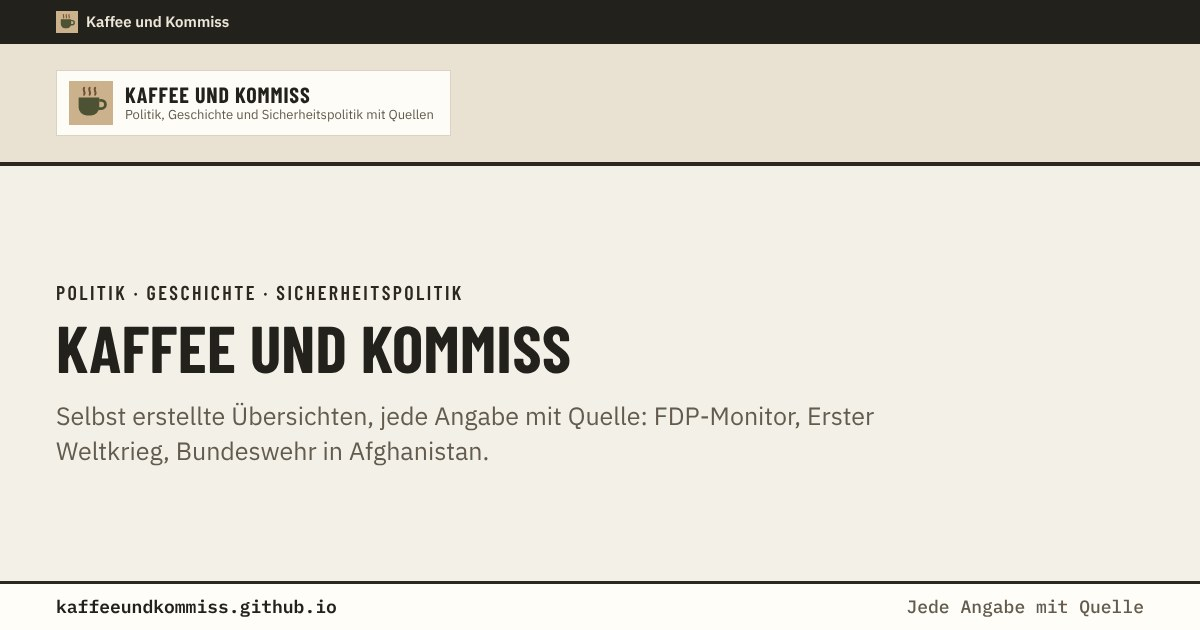
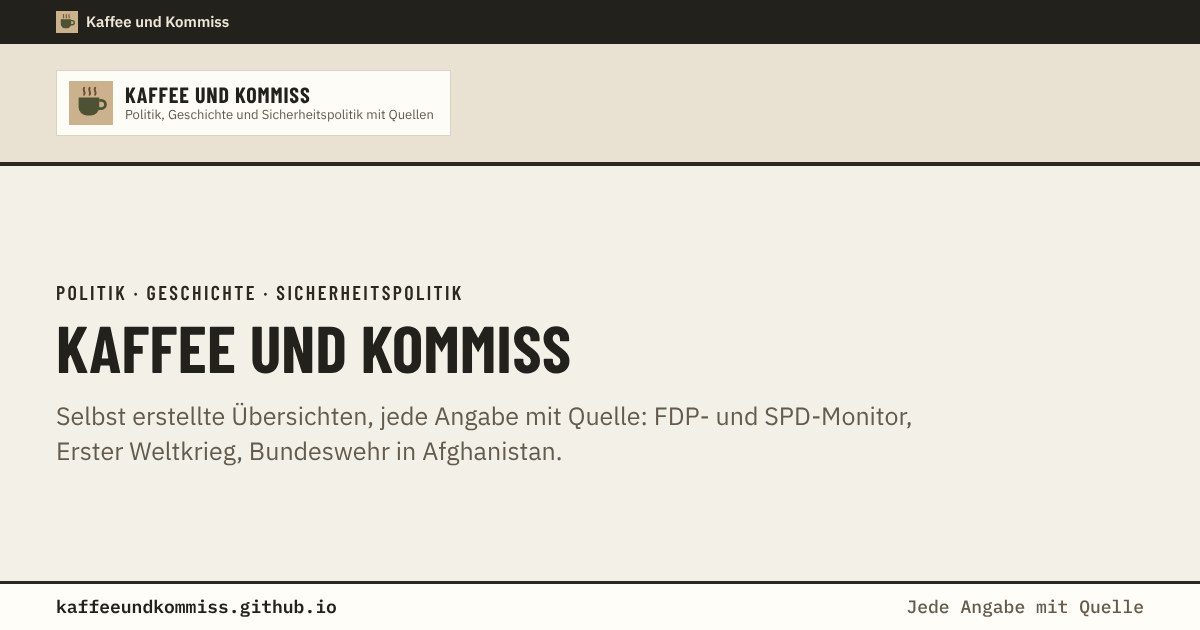
Politik-Übersicht mit FDP- und SPD-Monitor
Neue Seite politik/ listet beide Partei-Monitore. Die Startseiten-Kachel
und der Politik-Link der Leiste zeigen dorthin. Neues neutrales
Politik-Signet (blau), Signets fdp.svg und spd.svg, Vorschaubilder.

Claude-Session: https://claude.ai/code/session_01AuP7hJuLL2MaYYvZkzwGkQ

Changed region(s): [[0.0308, 0.6937, 0.4625, 0.754], [0.5858, 0.6333, 0.7708, 0.6937]]

diff --git a/politik/index.html b/politik/index.html
@@ -1,0 +1,78 @@
+<!doctype html>
+<html lang="de">
+<head>
+<meta charset="utf-8">
+<meta name="viewport" content="width=device-width, initial-scale=1">
+<title>Politik · Kaffee und Kommiss</title>
+<meta name="description" content="Partei-Monitore für FDP und SPD: Umfragewerte für Bund und Länder, Wahlergebnisse und Parteidaten, jede Angabe mit Quelle.">
+<link rel="canonical" href="https://kaffeeundkommiss.github.io/politik/">
+<meta property="og:type" content="website">
+<meta property="og:locale" content="de_DE">
+<meta property="og:site_name" content="Kaffee und Kommiss">
+<meta property="og:title" content="Politik · Kaffee und Kommiss">
+<meta property="og:description" content="Partei-Monitore für FDP und SPD: Umfragewerte für Bund und Länder, Wahlergebnisse und Parteidaten, jede Angabe mit Quelle.">
+<meta property="og:url" content="https://kaffeeundkommiss.github.io/politik/">
+<!-- Vorschau für Linkvorschauen, erzeugt mit werkzeuge/vorschau.js -->
+<meta property="og:image" content="https://kaffeeundkommiss.github.io/vorschau/politik.jpg?v=c4bcabc5">
+<meta property="og:image:width" content="1200">
+<meta property="og:image:height" content="630">
+<meta property="og:image:alt" content="Parteien im Überblick: Kaffee und Kommiss">
+<meta name="twitter:card" content="summary_large_image">
+<meta name="twitter:image" content="https://kaffeeundkommiss.github.io/vorschau/politik.jpg?v=c4bcabc5">
+<link rel="icon" href="../icons/politik.svg" type="image/svg+xml">
+<link rel="icon" href="../favicon-32.png" type="image/png" sizes="32x32">
+<link rel="apple-touch-icon" sizes="180x180" href="../apple-touch-icon.png?v=1">
+<meta name="theme-color" content="#23211C">
+<link rel="preconnect" href="https://fonts.googleapis.com">
+<link rel="preconnect" href="https://fonts.gstatic.com" crossorigin>
+<link rel="stylesheet" href="https://fonts.googleapis.com/css2?family=Barlow+Condensed:wght@500;600;700&family=IBM+Plex+Sans:wght@400;500;600;700&family=IBM+Plex+Mono:wght@400;500;600&display=swap">
+<link rel="stylesheet" href="../basis.css">
+<link rel="stylesheet" href="../style.css">
+</head>
+<body class="kk-b-poli">
+<div class="kk-leiste"><div class="kk-in">
+  <a class="kk-haus" href="https://kaffeeundkommiss.github.io/"><img src="../kk-tasse.svg" alt="" width="22" height="22"><span>Kaffee und Kommiss</span></a>
+  <nav class="kk-bereiche" aria-label="Bereiche"><a href="https://kaffeeundkommiss.github.io/erster-Weltkrieg/">Geschichte</a><a href="https://kaffeeundkommiss.github.io/bundeswehr-Afghanistan-/"><span class="kk-lang">Sicherheitspolitik</span><span class="kk-kurz">Sicherheit</span></a><a href="https://kaffeeundkommiss.github.io/politik/" aria-current="true">Politik</a></nav>
+</div></div>
+<header class="kk-kopf">
+  <div class="wrap">
+    <div class="kk-schild">
+      <img class="logo" src="../icons/politik.svg" alt="" width="44" height="44">
+      <div>
+        <div class="kk-name">Politik</div>
+        <div class="kk-unter">Partei-Monitore mit Umfragen und Wahlergebnissen</div>
+      </div>
+    </div>
+  </div>
+</header>
+
+<main>
+  <section class="einleitung">
+    <div class="kicker">Bereich Politik</div>
+    <h1>Parteien im Überblick</h1>
+    <p>Je Partei eine Seite mit gleichem Aufbau: aktuelle Umfragewerte für Bund und Länder (Quelle dawum.de), amtliche Wahlergebnisse und Daten zur Partei auf Bundesebene.</p>
+  </section>
+
+  <section class="projekte" aria-label="Partei-Monitore">
+    <a class="projekt kk-b-poli" href="https://kaffeeundkommiss.github.io/fdp-monitor/">
+      <span class="band"><img src="../icons/fdp.svg" alt="" width="40" height="40"></span>
+      <span class="rubrik">Politik</span>
+      <span class="titel">FDP-Monitor</span>
+      <span class="text">Umfragewerte der FDP für Bundestag und Landtagswahlen mit Abstand zur 5-%-Hürde, Wahlergebnisse seit 1998 und die Themen der Wahlprogramme.</span>
+      <span class="hinweis">Wird wöchentlich aktualisiert</span>
+    </a>
+    <a class="projekt kk-b-poli" href="https://kaffeeundkommiss.github.io/spd-monitor/">
+      <span class="band"><img src="../icons/spd.svg" alt="" width="40" height="40"></span>
+      <span class="rubrik">Politik</span>
+      <span class="titel">SPD-Monitor</span>
+      <span class="text">Umfragewerte der SPD für Bundestag und Landtagswahlen im Vergleich zur jeweils letzten Wahl, dazu Wahlergebnisse seit 1998 und der Parteivorsitz seit 1946.</span>
+      <span class="hinweis">Wird wöchentlich aktualisiert</span>
+    </a>
+  </section>
+</main>
+
+<footer class="kk-fuss"><div class="kk-in">
+  <p><a href="https://kaffeeundkommiss.github.io/">Kaffee und Kommiss</a>: Politik, Geschichte und Sicherheitspolitik mit Quellen. Private, nichtkommerzielle Zusammenstellung. Fehler gefunden? Bitte mit Quelle melden.</p>
+</div></footer>
+</body>
+</html>

diff --git a/index.html b/index.html
@@ -13,12 +13,12 @@
 <meta property="og:description" content="Selbst erstellte Übersichten zu Politik, Geschichte und Sicherheitspolitik, jede Angabe mit Quelle.">
 <meta property="og:url" content="https://kaffeeundkommiss.github.io/">
 <!-- Vorschau für Linkvorschauen, erzeugt mit werkzeuge/vorschau.js -->
-<meta property="og:image" content="https://kaffeeundkommiss.github.io/vorschau/start.jpg?v=b5fa48fe">
+<meta property="og:image" content="https://kaffeeundkommiss.github.io/vorschau/start.jpg?v=5d3710d7">
 <meta property="og:image:width" content="1200">
 <meta property="og:image:height" content="630">
 <meta property="og:image:alt" content="Kaffee und Kommiss">
 <meta name="twitter:card" content="summary_large_image">
-<meta name="twitter:image" content="https://kaffeeundkommiss.github.io/vorschau/start.jpg?v=b5fa48fe">
+<meta name="twitter:image" content="https://kaffeeundkommiss.github.io/vorschau/start.jpg?v=5d3710d7">
 <link rel="icon" href="favicon.svg" type="image/svg+xml">
 <link rel="icon" href="favicon-32.png" type="image/png" sizes="32x32">
 <link rel="apple-touch-icon" sizes="180x180" href="apple-touch-icon.png?v=1">
@@ -34,7 +34,7 @@
 <body>
 <div class="kk-leiste"><div class="kk-in">
   <a class="kk-haus" href="https://kaffeeundkommiss.github.io/"><img src="kk-tasse.svg" alt="" width="22" height="22"><span>Kaffee und Kommiss</span></a>
-  <nav class="kk-bereiche" aria-label="Bereiche"><a href="https://kaffeeundkommiss.github.io/erster-Weltkrieg/">Geschichte</a><a href="https://kaffeeundkommiss.github.io/bundeswehr-Afghanistan-/"><span class="kk-lang">Sicherheitspolitik</span><span class="kk-kurz">Sicherheit</span></a><a href="https://kaffeeundkommiss.github.io/fdp-monitor/">Politik</a></nav>
+  <nav class="kk-bereiche" aria-label="Bereiche"><a href="https://kaffeeundkommiss.github.io/erster-Weltkrieg/">Geschichte</a><a href="https://kaffeeundkommiss.github.io/bundeswehr-Afghanistan-/"><span class="kk-lang">Sicherheitspolitik</span><span class="kk-kurz">Sicherheit</span></a><a href="https://kaffeeundkommiss.github.io/politik/">Politik</a></nav>
 </div></div>
 <header class="kk-kopf">
   <div class="wrap">
@@ -56,11 +56,11 @@
   </section>
 
   <section class="projekte" aria-label="Projekte">
-    <a class="projekt kk-b-poli" href="https://kaffeeundkommiss.github.io/fdp-monitor/">
+    <a class="projekt kk-b-poli" href="https://kaffeeundkommiss.github.io/politik/">
       <span class="band"><img src="icons/politik.svg" alt="" width="40" height="40"></span>
       <span class="rubrik">Politik</span>
-      <span class="titel">FDP-Monitor</span>
-      <span class="text">Aktuelle Umfragewerte der FDP für Bundestag und Landtagswahlen, dazu Wahlergebnisse seit 1998 und die Themen der Wahlprogramme.</span>
+      <span class="titel">FDP- und SPD-Monitor</span>
+      <span class="text">Aktuelle Umfragewerte von FDP und SPD für Bundestag und Landtagswahlen, dazu Wahlergebnisse seit 1998 und Daten zur Partei.</span>
       <span class="hinweis">Wird wöchentlich aktualisiert</span>
     </a>
     <a class="projekt kk-b-gesch" href="https://kaffeeundkommiss.github.io/erster-Weltkrieg/">

diff --git a/README.md b/README.md
@@ -4,7 +4,7 @@ Startseite der Organisation: https://kaffeeundkommiss.github.io/
 
 Verweist auf die drei Projekte:
 
-- Politik: FDP-Monitor (https://kaffeeundkommiss.github.io/fdp-monitor/)
+- Politik: Übersicht https://kaffeeundkommiss.github.io/politik/ (Ordner `politik/`) mit FDP-Monitor (https://kaffeeundkommiss.github.io/fdp-monitor/) und SPD-Monitor (https://kaffeeundkommiss.github.io/spd-monitor/)
 - Geschichte: Jagdgeschwader Richthofen, https://kaffeeundkommiss.github.io/erster-Weltkrieg/
 - Sicherheitspolitik: Bundeswehr in Afghanistan, https://kaffeeundkommiss.github.io/bundeswehr-Afghanistan-/
 
